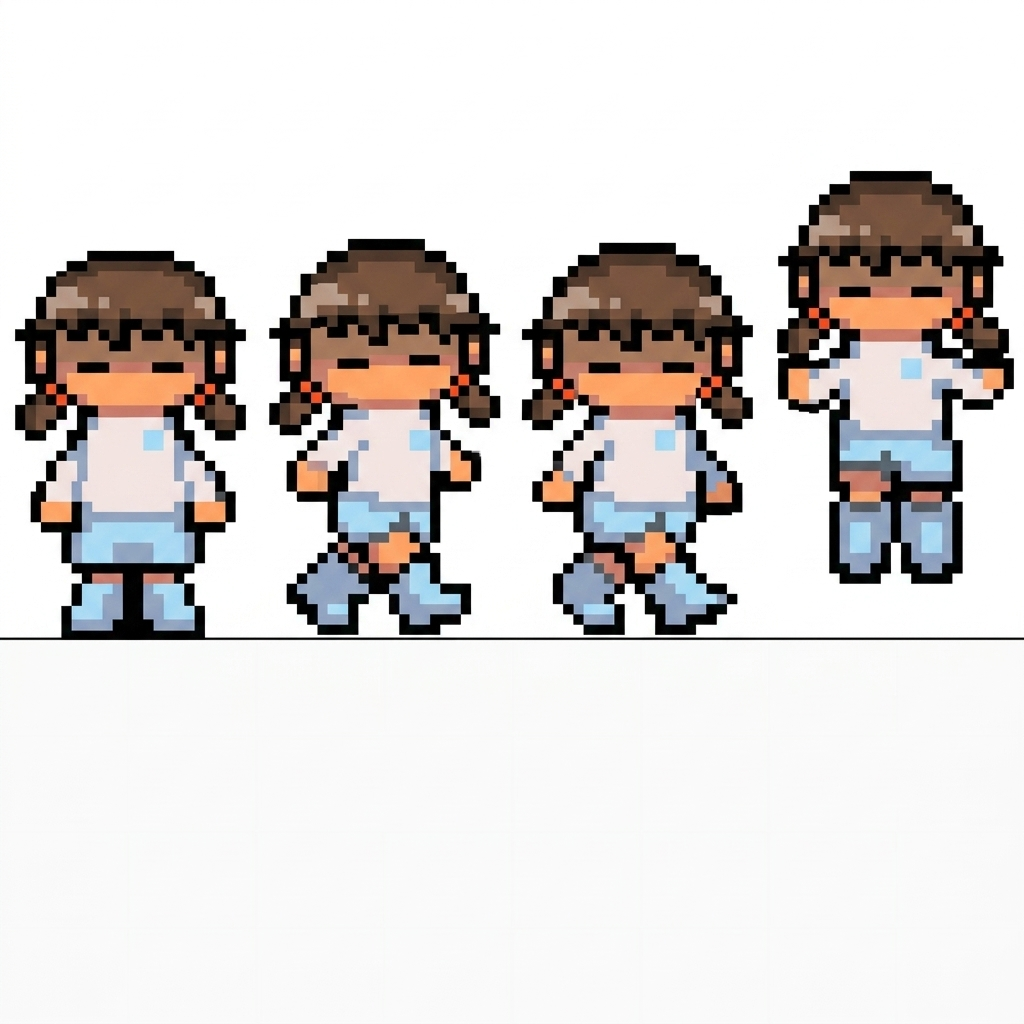
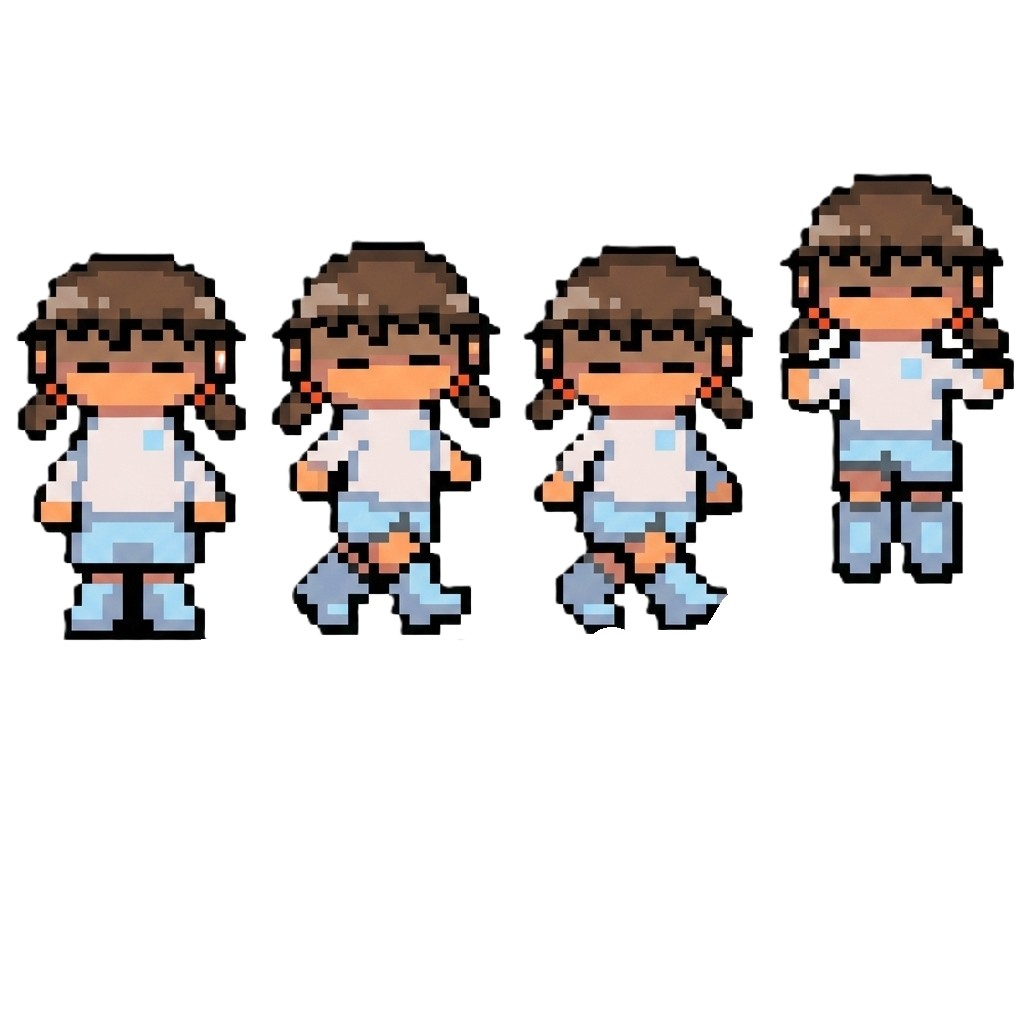
jogo finalizado

diff --git a/ava_jogo.py b/ava_jogo.py
@@ -1,3 +1,11 @@
+from peewee import *
+db = SqliteDatabase("pontuacao.db")
+
+
+
+class BaseModel(Model):
+    class Meta:
+        database = db
 
 import arcade
 import random
@@ -44,59 +52,61 @@ def confBordas(objeto, rebater=False):
 #classe player
 class Player(arcade.Sprite):
     def __init__(self):
-        sheet_direita = arcade.load_spritesheet("AnaGabriele.png")
-
-        quadros_direita = sheet_direita.get_texture_grid(
-            size = (252, 247),
-            columns = 4,
-            count = 4
+        sheet = arcade.load_spritesheet("AnaGabriele.png")
+        quadros = sheet.get_texture_grid(
+            size=(332, 397),
+            columns=4,
+            count=8,
         )
-        quadros_esquerda = []
-        for frame in quadros_direita:
-            quadros_esquerda.append(frame.flip_left_right())
-        super().__init__("bia.png", scale = 0.7)
-       
-        # self.texture_direita_a = arcade.load_texture("bia_direita2.png")
-        # self.texture_parado = arcade.load_texture("bia.png")
-        # self.texture_esquerda_e = arcade.load_texture("bia_esquerda2.png")
+
+        quadros_direita = quadros[:4]
+        quadros_esquerda = [frame.flip_left_right() for frame in quadros_direita]
+
+        super().__init__(scale=0.2)
+
         self.gravidade = GRAVIDADE
-        self.texture_parado_d = quadros_direita
-        self.texture_parado_e = quadros_esquerda
 
-        self.passos_direita = [quadros_direita[1], quadros_direita[2]]
-        self.passos_esquerda = [quadros_esquerda[1], quadros_esquerda[2]]
+        self.texture_parado_d = quadros_direita[0]
+        self.texture_parado_e = quadros_esquerda[0]
+        self.texture_parado = self.texture_parado_d
 
-        self.texture_pulo_d = quadros_direita[3]
-        self.texture_pulo_e = quadros_esquerda[3]
-        
-        self.quadro_atual : int = 0
-        self.tempo_animacao : float = 0.0
-        self.virado_para : str = "Direita"
+        self.passos_direita = quadros_direita[1:]
+        self.passos_esquerda = quadros_esquerda[1:]
+
+        self.texture_pulo_d = quadros_direita[-1]
+        self.texture_pulo_e = quadros_esquerda[-1]
+
+        self.quadro_atual: int = 0
+        self.tempo_animacao: float = 0.0
+        self.virado_para: str = "Direita"
+        self.texture = self.texture_parado_d
+
     def update(self, delta_time):
-        
-
-       
         if self.change_x > 0:
             self.virado_para = "Direita"
-
         elif self.change_x < 0:
             self.virado_para = "Esquerda"
-        
 
+        confBordas(self, rebater=False)
 
-        confBordas(self, rebater =False)
         if self.change_y != 0:
-            self.texture = self.texture_pulo_d
-
             if self.virado_para == "Direita":
                 self.texture = self.texture_pulo_d
             else:
-                self.texture_pulo_e
-                return
-      
+                self.texture = self.texture_pulo_e
+            return
 
-
-
+        if self.change_x != 0:
+            frames = self.passos_direita if self.virado_para == "Direita" else self.passos_esquerda
+            self.tempo_animacao += delta_time
+            if self.tempo_animacao >= 0.12:
+                self.tempo_animacao = 0.0
+                self.quadro_atual = (self.quadro_atual + 1) % len(frames)
+            self.texture = frames[self.quadro_atual]
+            self.texture_parado = self.texture_parado_d if self.virado_para == "Direita" else self.texture_parado_e
+        else:
+            self.texture_parado = self.texture_parado_d if self.virado_para == "Direita" else self.texture_parado_e
+            self.texture = self.texture_parado
 
 
 class Moeda(arcade.Sprite):
@@ -645,11 +655,9 @@ class TelaJogo(arcade.View):
 
 
     def on_key_release(self, key, modifiers):
-        if key == arcade.key.A or key == arcade.key.D  or key == arcade.key.RIGHT or key == arcade.key.LEFT:
+        if key == arcade.key.A or key == arcade.key.D or key == arcade.key.RIGHT or key == arcade.key.LEFT:
             self.jogador.change_x = 0
             self.jogador.texture = self.jogador.texture_parado
-        
-    
 
 
 

diff --git a/treino.py b/treino.py
@@ -1,0 +1,13 @@
+from peewee import *
+
+print("Conectando ao banco de dados...")
+banco = SqliteDatabase("treino.db")
+print("menu")
+print("1 - Cadastrar contato")
+print("2 - Ver todos os contatos")
+print("3 - Buscar contato pelo nome")
+print("4 - Editar contato pelo ID")
+print("5 - Excluir contato pelo ID")
+print("6 - Sair")
+
+pritn
